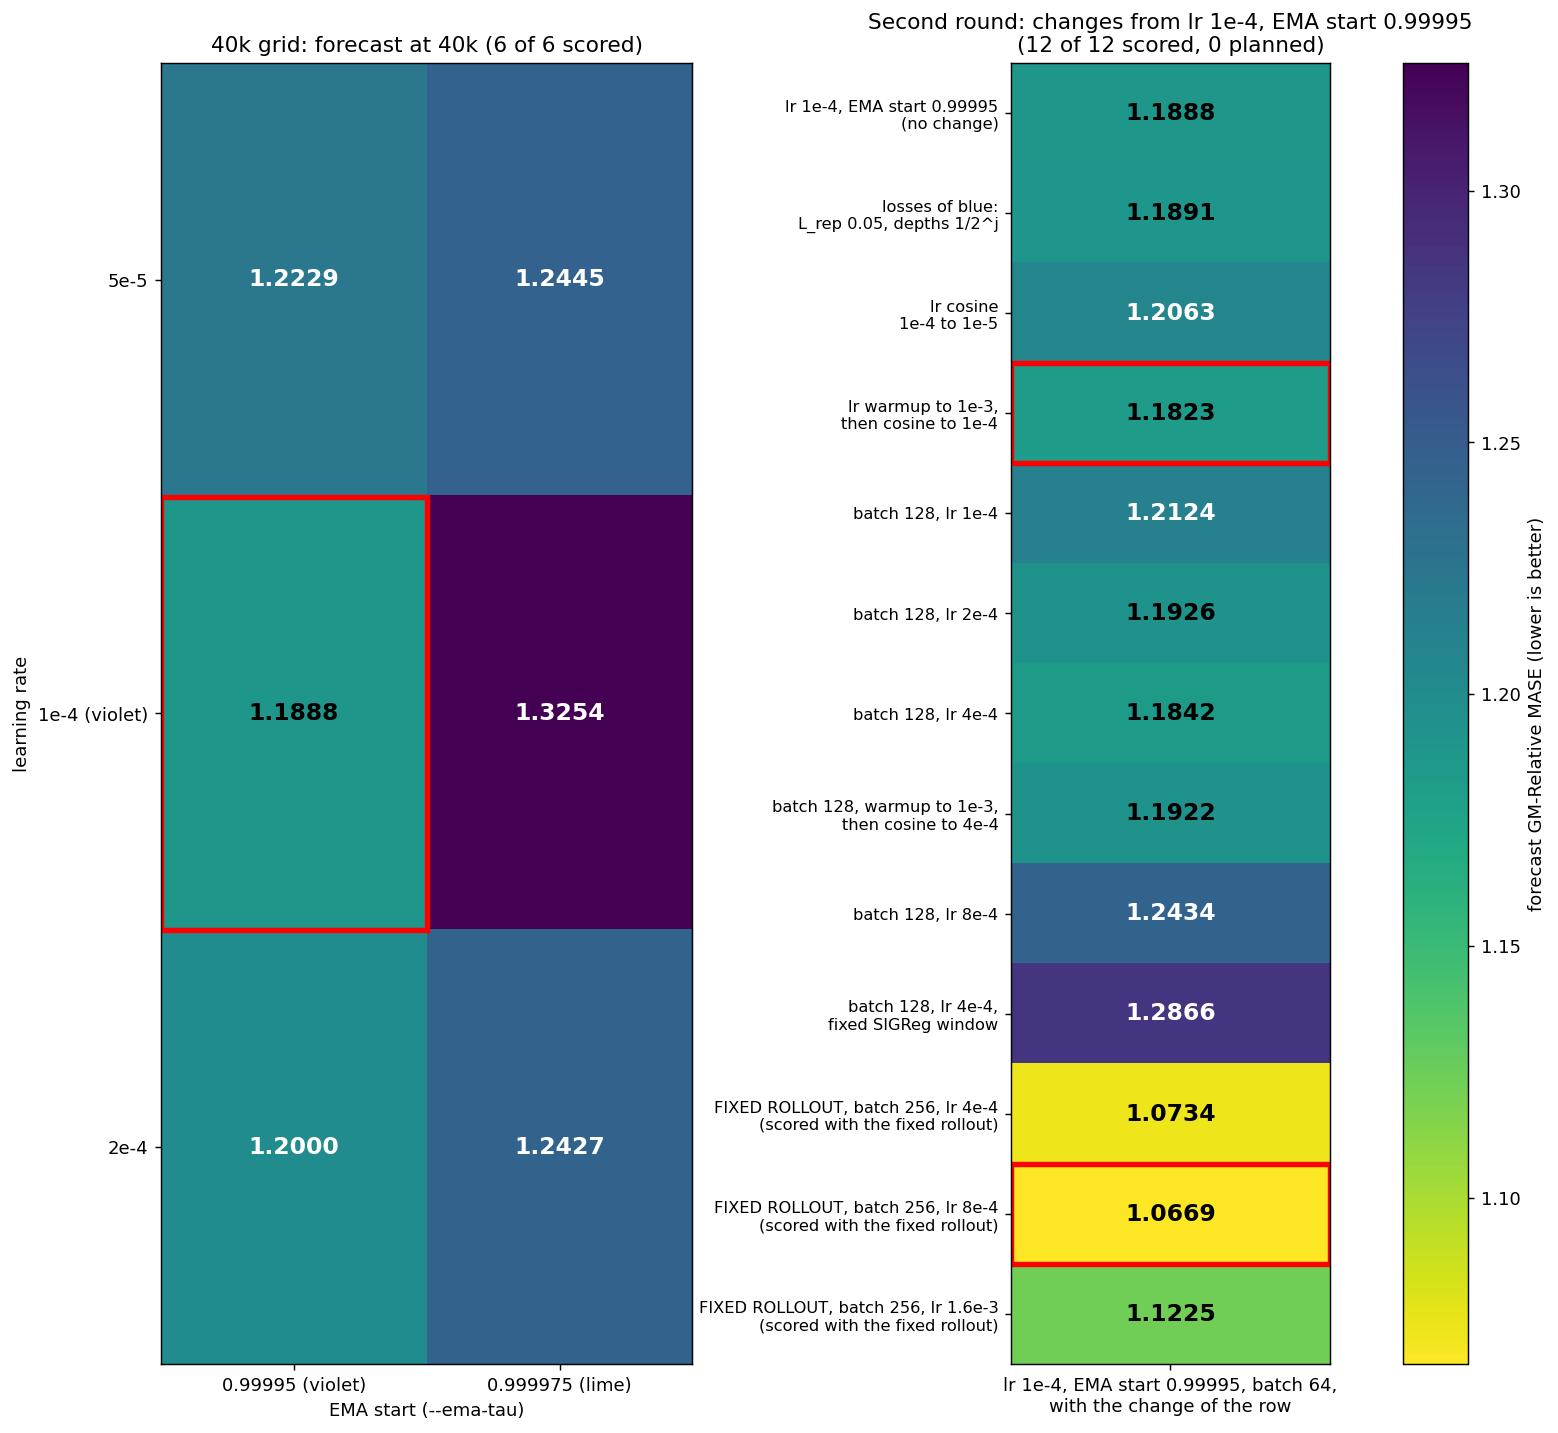
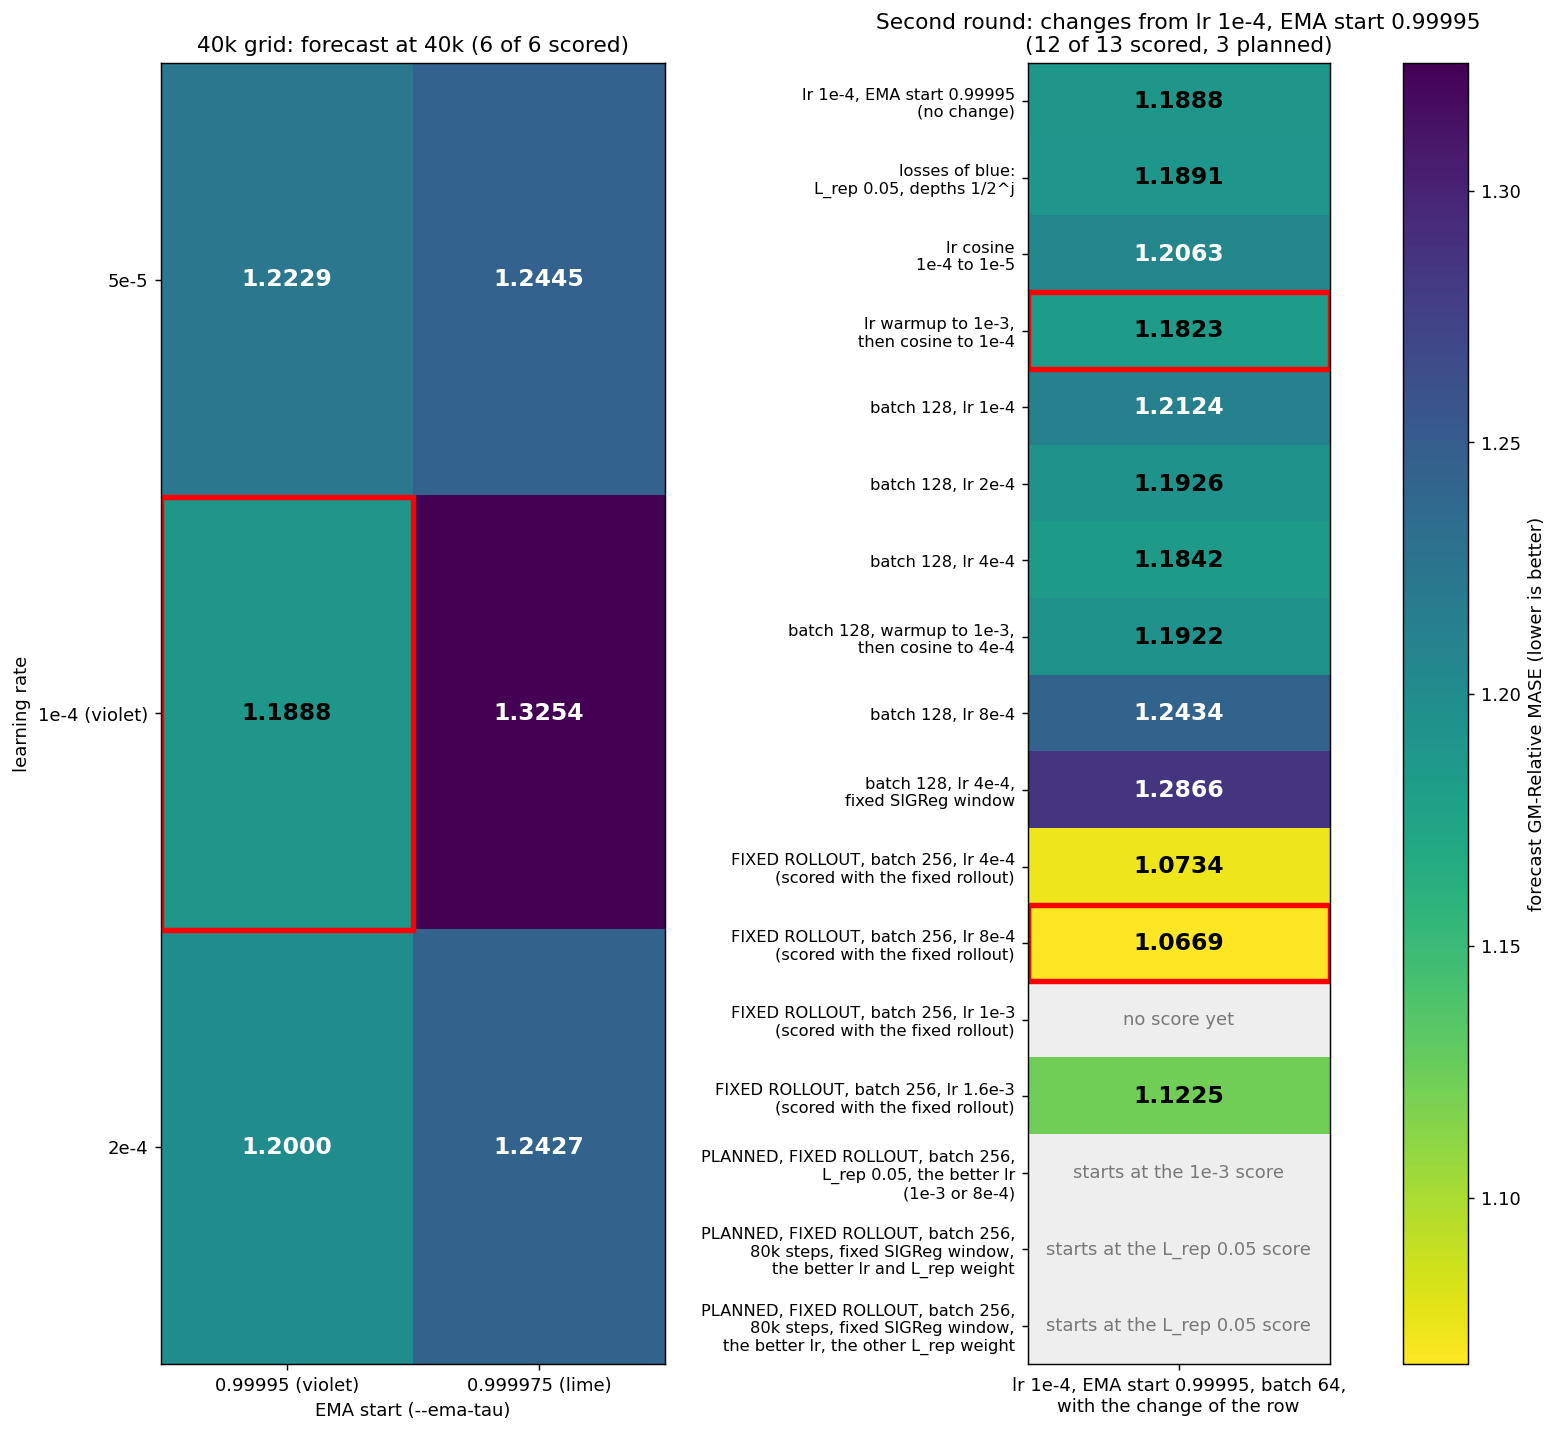
Grid figures: batch 256 at lr 1e-3 (no score yet) and the three planned runs of the user's plan

diff --git a/reports/2026-10-10_frequency_family_head/scripts/plot_grid40k.py b/reports/2026-10-10_frequency_family_head/scripts/plot_grid40k.py
@@ -8,8 +8,10 @@ rows are the learning rate, the columns the EMA start (--ema-tau).
 The second round (the user, 11-02 and 11-03): runs from the cell lr 1e-4,
 EMA start 0.99995, each with one change (the losses of blue or an lr
 schedule); batch 128 at the lr 1e-4, 2e-4, 4e-4 and 8e-4, and with the warmup
-of W and a cosine to 4e-4. Batch 256 comes after these batch-128 results (the
-user, 11-03), on the fixed code. Its panel has that cell as its first row.
+of W and a cosine to 4e-4. Batch 256 runs on the fixed code (the user, 11-03):
+the constant lr 4e-4, 8e-4, 1e-3 and 1.6e-3. The grey rows are the planned runs
+of the user's plan of 11-04: L_rep 0.05 at the better lr, then 80k steps with the
+fixed SIGReg window at both L_rep weights. Its panel has that cell as its first row.
 
 Each cell is the forecast GM-Relative MASE of head B4 at 40k (30k head steps,
 97 configs). Lower is better. A grey cell has no score yet. A red frame marks
@@ -57,11 +59,16 @@ ROUND2 = {BEST: ("lr 1e-4, EMA start 0.99995\n(no change)", "1e-4"),
           "g40b_lr4em4_tau99995_bs128_sigfix": ("batch 128, lr 4e-4,\nfixed SIGReg window", "4e-4"),
           "g40b_lr4em4_tau99995_bs256_rollfix": ("FIXED ROLLOUT, batch 256, lr 4e-4\n(scored with the fixed rollout)", "4e-4"),
           "g40b_lr8em4_tau99995_bs256_rollfix": ("FIXED ROLLOUT, batch 256, lr 8e-4\n(scored with the fixed rollout)", "8e-4"),
+          "g40b_lr1em3_tau99995_bs256_rollfix": ("FIXED ROLLOUT, batch 256, lr 1e-3\n(scored with the fixed rollout)", "1e-3"),
           "g40b_lr1p6em3_tau99995_bs256_rollfix": ("FIXED ROLLOUT, batch 256, lr 1.6e-3\n(scored with the fixed rollout)",
                                                    "1.6e-3")}
 # The planned runs of the search, not started: (row label, when). The user (11-03 about
 # 21:05 UTC): the heatmap shows them; each one moves into ROUND2 when it starts.
-PLANNED = []
+PLANNED = [("PLANNED, FIXED ROLLOUT, batch 256,\nL_rep 0.05, the better lr\n(1e-3 or 8e-4)", "starts at the 1e-3 score"),
+           ("PLANNED, FIXED ROLLOUT, batch 256,\n80k steps, fixed SIGReg window,\nthe better lr and L_rep weight",
+            "starts at the L_rep 0.05 score"),
+           ("PLANNED, FIXED ROLLOUT, batch 256,\n80k steps, fixed SIGReg window,\nthe better lr, the other L_rep weight",
+            "starts at the L_rep 0.05 score")]
 # run -> its colour in the radar and in the training figure of the second round
 ROUND2_COLOURS = {BEST: "#d95f02", "g40b_lr1em4_tau99995_rep005h": "#1f77b4",
                   "g40c_lr1em4_tau99995_cos": "#e7298a", "g40w_lr1em3_wu4k_cos": "#66a61e",
@@ -69,7 +76,7 @@ ROUND2_COLOURS = {BEST: "#d95f02", "g40b_lr1em4_tau99995_rep005h": "#1f77b4",
                   "g40b_lr4em4_tau99995_bs128": "#8c564b", "g40w_lr1em3_wu4k_cos4em4_bs128": "#d62728",
                   "g40b_lr8em4_tau99995_bs128": "#6a3d9a", "g40b_lr4em4_tau99995_bs128_sigfix": "#e6ab02",
                   "g40b_lr4em4_tau99995_bs256_rollfix": "#1b9e77", "g40b_lr8em4_tau99995_bs256_rollfix": "#999999",
-                  "g40b_lr1p6em3_tau99995_bs256_rollfix": "#000000"}
+                  "g40b_lr1em3_tau99995_bs256_rollfix": "#ff00ff", "g40b_lr1p6em3_tau99995_bs256_rollfix": "#000000"}
 
 
 def run_score(run):
@@ -184,7 +191,7 @@ def main():
     grid, round2 = grid_scores(), round2_scores()
     write_table(grid, round2)
     low, high = color_scale(grid, round2)
-    fig, (left, right) = plt.subplots(1, 2, figsize=(14.5, 13), gridspec_kw={"width_ratios": [2, 1.2], "wspace": 0.75})
+    fig, (left, right) = plt.subplots(1, 2, figsize=(14.5, 13), gridspec_kw={"width_ratios": [2, 1.2], "wspace": 0.9})
     image = draw_grid(left, grid, low, high)
     draw_round2(right, round2, low, high)
     fig.colorbar(image, ax=[left, right], label="forecast GM-Relative MASE (lower is better)")

diff --git a/reports/2026-10-10_frequency_family_head/scripts/plot_grid40k_round2.py b/reports/2026-10-10_frequency_family_head/scripts/plot_grid40k_round2.py
@@ -5,8 +5,8 @@ losses of blue (L_rep 0.05, the L_align depth weights 1/2^j), the lr schedule
 (C: a cosine from 1e-4 to 1e-5 over the 40k steps; W: a warmup to 1e-3 over 4k
 steps, then a cosine to 1e-4), batch 128 at the lr 1e-4, 2e-4, 4e-4 and 8e-4, A:
 batch 128 with the warmup of W, then a cosine to 4e-4, and the SIGReg gate: batch
-128 at lr 4e-4 with the SIGReg window fix of #438, and batch 256 at the lr 4e-4, 8e-4
-and 1.6e-3 with the fixed rollout of #446 and #447 (the old SIGReg window). Three panels on one step
+128 at lr 4e-4 with the SIGReg window fix of #438, and batch 256 at the lr 4e-4, 8e-4,
+1e-3 and 1.6e-3 with the fixed rollout of #446 and #447 (the old SIGReg window). Three panels on one step
 axis, means over bins of 500 steps:
 
   1. The lr of each step, from the flags of the run (the formula of
@@ -58,6 +58,7 @@ RUNS = {
                                           (4e-4, 4e-4, STEPS, 0), False),
     "g40b_lr4em4_tau99995_bs256_rollfix": ("fixed rollout, batch 256, lr 4e-4", (4e-4, 4e-4, STEPS, 0), False),
     "g40b_lr8em4_tau99995_bs256_rollfix": ("fixed rollout, batch 256, lr 8e-4", (8e-4, 8e-4, STEPS, 0), False),
+    "g40b_lr1em3_tau99995_bs256_rollfix": ("fixed rollout, batch 256, lr 1e-3", (1e-3, 1e-3, STEPS, 0), False),
     "g40b_lr1p6em3_tau99995_bs256_rollfix": ("fixed rollout, batch 256, lr 1.6e-3",
                                              (1.6e-3, 1.6e-3, STEPS, 0), False),
 }

diff --git a/reports/2026-10-10_frequency_family_head/frequency_family_head.md b/reports/2026-10-10_frequency_family_head/frequency_family_head.md
@@ -85,6 +85,8 @@ The batch-256 runs keep the old SIGReg window.
 They train with the normalised rollout feedback of #447, and their scores use the normalised rollout of #446.
 At batch 256, the constant learning rates 4e-4, 8e-4 and 1.6e-3 give 1.0734, 1.0669 and 1.1225.
 The lowest score is at 8e-4.
+The run at 1e-3 has no score yet.
+The grey rows of the heat map show the planned runs: L_rep 0.05 at the better learning rate, then 80k steps with the SIGReg window fix at the two L_rep weights.
 The other scores of the grid use the raw rollout feedback, so compare a batch-256 score only with the other batch-256 scores.
 The largest change is on m4_hourly: 2.29 for batch 256 at 8e-4, 4.89 for batch 128 at 4e-4 and 1.55 for MPE.
 
